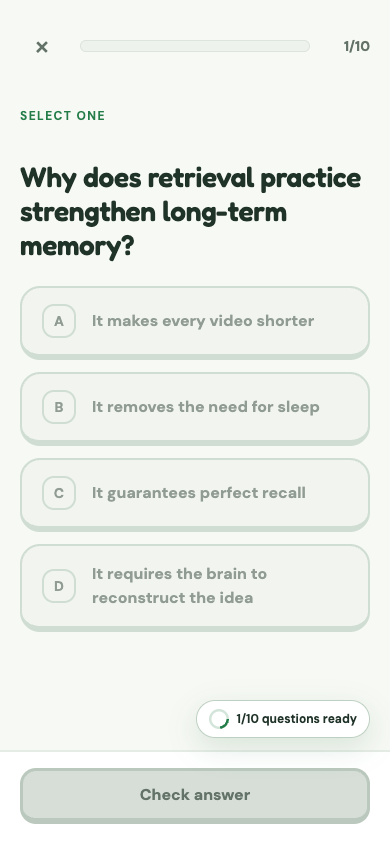
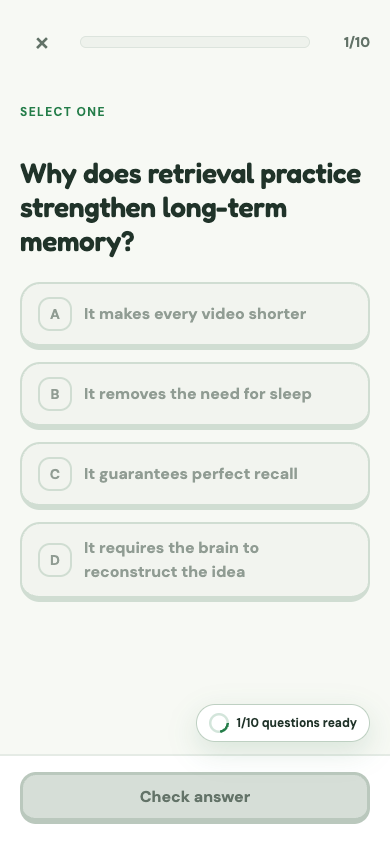
fix(ui): refine compact learner layouts

diff --git a/e2e/clipquest.spec.ts b/e2e/clipquest.spec.ts
@@ -1349,6 +1349,31 @@ test("mobile link, processing, lesson feedback, and completion", async ({
 
   await page.goto("/");
   await expect(page.getByLabel("Paste a YouTube link")).toBeVisible();
+  const questionTypeBoxes = await Promise.all(
+    ["Multiple choice", "True / false", "Short answer"].map((name) =>
+      page.getByRole("checkbox", { name }).boundingBox(),
+    ),
+  );
+  expect(questionTypeBoxes.every(Boolean)).toBe(true);
+  expect(
+    Math.max(...questionTypeBoxes.map((box) => box?.width ?? 0)) -
+      Math.min(...questionTypeBoxes.map((box) => box?.width ?? 0)),
+  ).toBeLessThanOrEqual(1);
+  expect(
+    Math.max(...questionTypeBoxes.map((box) => box?.x ?? 0)) -
+      Math.min(...questionTypeBoxes.map((box) => box?.x ?? 0)),
+  ).toBeLessThanOrEqual(1);
+
+  const mobileTabBoxes = await Promise.all(
+    ["Home", "Library", "Settings"].map((name) =>
+      page.getByRole("tab", { name }).boundingBox(),
+    ),
+  );
+  expect(mobileTabBoxes.every(Boolean)).toBe(true);
+  expect(
+    Math.max(...mobileTabBoxes.map((box) => box?.width ?? 0)) -
+      Math.min(...mobileTabBoxes.map((box) => box?.width ?? 0)),
+  ).toBeLessThanOrEqual(1);
   await capture(page, "mobile-link-import");
 
   await seedImportedVideo(page, importedVideo);
@@ -1400,6 +1425,31 @@ test("mobile link, processing, lesson feedback, and completion", async ({
   await capture(page, "mobile-completion");
   await page.getByRole("button", { name: "Return to library" }).click();
   await expect(page).toHaveURL(/\/library$/);
+  await expect(page.getByRole("heading", { name: "Library" })).toBeVisible();
+  const mobileLibraryCard = page.getByRole("button", {
+    name: /How memory really works/,
+  });
+  await expect(mobileLibraryCard).toBeVisible();
+  expect((await mobileLibraryCard.boundingBox())?.width ?? 0).toBeGreaterThan(
+    340,
+  );
+  await capture(page, "mobile-library");
+
+  await page.goto("/settings");
+  await expect(page.getByRole("heading", { name: "Settings" })).toBeVisible();
+  const deleteAccountBox = await page
+    .getByRole("button", { name: "Delete account" })
+    .boundingBox();
+  const appearanceHeadingBox = await page
+    .getByRole("heading", { name: "Appearance" })
+    .boundingBox();
+  expect(deleteAccountBox).not.toBeNull();
+  expect(appearanceHeadingBox).not.toBeNull();
+  expect(
+    (appearanceHeadingBox?.y ?? 0) -
+      ((deleteAccountBox?.y ?? 0) + (deleteAccountBox?.height ?? 0)),
+  ).toBeLessThan(80);
+  await capture(page, "mobile-settings");
   expect(
     scenario.requestedPaths.filter((path) => path.startsWith("/api/youtube")),
   ).toEqual([]);

diff --git a/apps/app/src/components/QuestionTypeSelector.tsx b/apps/app/src/components/QuestionTypeSelector.tsx
@@ -3,9 +3,15 @@ import {
   type QuizQuestionType,
 } from "@clipquest/contracts";
 import { VoxelIcon } from "./VoxelIcon";
-import { StyleSheet, Text, View } from "react-native";
+import { StyleSheet, Text, useWindowDimensions, View } from "react-native";
 import { useSettings } from "../providers/SettingsProvider";
-import { borders, radii, spacing, typography } from "../theme/tokens";
+import {
+  borders,
+  breakpoints,
+  radii,
+  spacing,
+  typography,
+} from "../theme/tokens";
 import { FeedbackMotion, MotionPressable } from "../motion/Motion";
 
 const choices = [
@@ -24,6 +30,8 @@ export function QuestionTypeSelector({
   disabled?: boolean;
 }) {
   const { t, theme } = useSettings();
+  const { width } = useWindowDimensions();
+  const compact = width < breakpoints.tablet;
   const selected = new Set(value);
   return (
     <View
@@ -38,6 +46,7 @@ export function QuestionTypeSelector({
             key={choice.type}
             signal={active ? choice.type : false}
             kind="attention"
+            style={compact ? styles.choiceWrapCompact : styles.choiceWrap}
           >
             <MotionPressable
               accessibilityRole="checkbox"
@@ -56,6 +65,7 @@ export function QuestionTypeSelector({
               }}
               style={({ pressed }) => [
                 styles.choice,
+                compact && styles.choiceCompact,
                 {
                   backgroundColor: active
                     ? theme.primarySoft
@@ -66,7 +76,7 @@ export function QuestionTypeSelector({
               ]}
             >
               <VoxelIcon
-                name={active ? "selected" : "selected"}
+                name={active ? "checkbox-checked" : "checkbox-unchecked"}
                 size={21}
                 color={active ? theme.primary : theme.textMuted}
               />
@@ -83,6 +93,8 @@ export function QuestionTypeSelector({
 
 const styles = StyleSheet.create({
   row: { flexDirection: "row", flexWrap: "wrap", gap: spacing[2] },
+  choiceWrap: { flexShrink: 0 },
+  choiceWrapCompact: { width: "100%" },
   choice: {
     minHeight: 52,
     flexDirection: "row",
@@ -91,6 +103,10 @@ const styles = StyleSheet.create({
     borderWidth: borders.standard,
     borderRadius: radii.medium,
     paddingHorizontal: spacing[4],
+  },
+  choiceCompact: {
+    width: "100%",
+    justifyContent: "flex-start",
   },
   pressed: { opacity: 0.72 },
   label: {

diff --git a/apps/app/src/components/PrimaryButton.tsx b/apps/app/src/components/PrimaryButton.tsx
@@ -5,10 +5,18 @@ import {
   Platform,
   StyleSheet,
   Text,
+  useWindowDimensions,
   View,
 } from "react-native";
 import { useSettings } from "../providers/SettingsProvider";
-import { borders, controls, motion, radii, typography } from "../theme/tokens";
+import {
+  borders,
+  breakpoints,
+  controls,
+  motion,
+  radii,
+  typography,
+} from "../theme/tokens";
 import { MotionPressable, MotionView } from "../motion/Motion";
 
 export type ButtonVariant = "primary" | "secondary" | "ghost" | "danger";
@@ -67,6 +75,8 @@ export function PrimaryButton({
   testID,
 }: Props) {
   const { theme } = useSettings();
+  const { width } = useWindowDimensions();
+  const mobile = width < breakpoints.tablet;
   const [focused, setFocused] = useState(false);
   const unavailable = disabled || loading;
 
@@ -109,7 +119,13 @@ export function PrimaryButton({
   }
 
   return (
-    <View style={[styles.slot, compact && styles.slotCompact]}>
+    <View
+      style={[
+        styles.slot,
+        mobile && styles.slotMobile,
+        compact && styles.slotCompact,
+      ]}
+    >
       <MotionPressable
         testID={testID}
         accessibilityRole="button"
@@ -128,6 +144,7 @@ export function PrimaryButton({
         onBlur={() => setFocused(false)}
         style={({ pressed, hovered }) => [
           styles.button,
+          mobile && styles.buttonMobile,
           compact && styles.buttonCompact,
           {
             backgroundColor: colors.background,
@@ -176,6 +193,9 @@ const styles = StyleSheet.create({
   slot: {
     minHeight: controls.buttonHeightDesktop + borders.tactileDepth,
   },
+  slotMobile: {
+    minHeight: controls.buttonHeight + borders.tactileDepth,
+  },
   slotCompact: {
     minHeight: controls.iconTarget + borders.tactileDepth,
   },
@@ -186,6 +206,10 @@ const styles = StyleSheet.create({
     paddingHorizontal: 22,
     alignItems: "center",
     justifyContent: "center",
+  },
+  buttonMobile: {
+    minHeight: controls.buttonHeight,
+    paddingHorizontal: 18,
   },
   buttonCompact: {
     minHeight: controls.iconTarget,

diff --git a/apps/app/src/components/AnswerCard.tsx b/apps/app/src/components/AnswerCard.tsx
@@ -1,11 +1,18 @@
 import { VoxelIcon } from "./VoxelIcon";
 import { MathText } from "./MathText";
 import type { ReactNode } from "react";
-import { Platform, StyleSheet, Text, View } from "react-native";
+import {
+  Platform,
+  StyleSheet,
+  Text,
+  useWindowDimensions,
+  View,
+} from "react-native";
 import { useSettings } from "../providers/SettingsProvider";
 import { FeedbackMotion, MotionPressable, MotionView } from "../motion/Motion";
 import {
   borders,
+  breakpoints,
   controls,
   motion,
   radii,
@@ -32,6 +39,8 @@ export function AnswerCard({
   leading?: ReactNode;
 }) {
   const { theme } = useSettings();
+  const { width } = useWindowDimensions();
+  const compact = width < breakpoints.compact;
   const disabled = state === "disabled";
   const selected = state !== "default" && state !== "disabled";
   const backgroundColor =
@@ -78,6 +87,7 @@ export function AnswerCard({
         onPress={onPress}
         style={({ pressed, hovered }) => [
           styles.card,
+          compact && styles.cardCompact,
           {
             backgroundColor: disabled ? theme.surfaceSunken : backgroundColor,
             borderColor,
@@ -166,6 +176,11 @@ const styles = StyleSheet.create({
     borderRadius: radii.large,
     paddingHorizontal: spacing[5],
     paddingVertical: spacing[4],
+  },
+  cardCompact: {
+    gap: spacing[3],
+    paddingHorizontal: spacing[4],
+    paddingVertical: spacing[3],
   },
   index: {
     width: 34,

diff --git a/apps/app/app/(tabs)/_layout.tsx b/apps/app/app/(tabs)/_layout.tsx
@@ -202,7 +202,7 @@ function LearningTabBar({
                   {options.tabBarIcon?.({
                     focused: selected,
                     color,
-                    size: desktop ? 27 : 25,
+                    size: desktop ? 27 : 24,
                   })}
                 </MotionView>
               </FeedbackMotion>
@@ -262,7 +262,7 @@ const styles = StyleSheet.create({
     minHeight: controls.navigationHeight - spacing[1],
     flexDirection: "row",
     alignItems: "stretch",
-    justifyContent: "space-around",
+    justifyContent: "space-between",
     gap: spacing[1],
   },
   item: {
@@ -278,13 +278,13 @@ const styles = StyleSheet.create({
     paddingHorizontal: spacing[4],
   },
   mobileItem: {
-    minHeight: 54,
-    maxWidth: 68,
+    minHeight: 60,
     flex: 1,
     alignItems: "center",
     justifyContent: "center",
-    gap: 2,
+    gap: 0,
     paddingHorizontal: spacing[1],
+    paddingVertical: 3,
   },
   itemLabel: {
     minWidth: 0,
@@ -296,6 +296,8 @@ const styles = StyleSheet.create({
     lineHeight: typography.lineHeight.body,
   },
   mobileLabel: {
-    display: "none",
+    fontSize: 11,
+    lineHeight: 14,
+    textAlign: "center",
   },
 });

diff --git a/apps/app/app/(tabs)/settings.tsx b/apps/app/app/(tabs)/settings.tsx
@@ -159,7 +159,11 @@ export default function SettingsScreen() {
       ) : null}
 
       <View style={[styles.grid, desktop && styles.gridDesktop]}>
-        <MotionView preset="from-left" delay={44} style={styles.column}>
+        <MotionView
+          preset="from-left"
+          delay={44}
+          style={[styles.column, desktop && styles.columnDesktop]}
+        >
           <SettingsSection title={t("account")} icon="people">
             <View style={styles.accountRow}>
               <View
@@ -256,7 +260,11 @@ export default function SettingsScreen() {
           </SettingsSection>
         </MotionView>
 
-        <MotionView preset="from-right" delay={88} style={styles.column}>
+        <MotionView
+          preset="from-right"
+          delay={88}
+          style={[styles.column, desktop && styles.columnDesktop]}
+        >
           <SettingsSection title={t("appearance")} icon="appearance">
             <FieldLabel>{t("theme")}</FieldLabel>
             <SegmentedControl
@@ -479,8 +487,10 @@ const styles = StyleSheet.create({
   },
   column: {
     minWidth: 0,
-    flex: 1,
     gap: spacing[5],
+  },
+  columnDesktop: {
+    flex: 1,
   },
   section: {
     padding: 0,

diff --git a/apps/app/app/(tabs)/library.tsx b/apps/app/app/(tabs)/library.tsx
@@ -231,6 +231,7 @@ function QuestList({
           >
             <VideoCard
               compact={compact}
+              fill={compact}
               card={card}
               onPress={() => onOpen(card)}
             />
@@ -305,7 +306,7 @@ const styles = StyleSheet.create({
     width: "100%",
   },
   cardWrapCompact: {
-    alignItems: "center",
+    width: "100%",
   },
   opening: {
     opacity: 0.65,

diff --git a/apps/app/src/components/Screen.tsx b/apps/app/src/components/Screen.tsx
@@ -59,7 +59,7 @@ export function Screen({
         centered && styles.centered,
         padded && {
           paddingHorizontal: horizontal,
-          paddingTop: spacing[6],
+          paddingTop: width < breakpoints.tablet ? spacing[5] : spacing[6],
           paddingBottom: spacing[10],
         },
         maxWidth ? { maxWidth } : null,

diff --git a/apps/app/src/components/FeedbackPanel.tsx b/apps/app/src/components/FeedbackPanel.tsx
@@ -138,6 +138,5 @@ const styles = StyleSheet.create({
   actionCompact: {
     width: "100%",
     minWidth: 0,
-    paddingLeft: 62,
   },
 });
